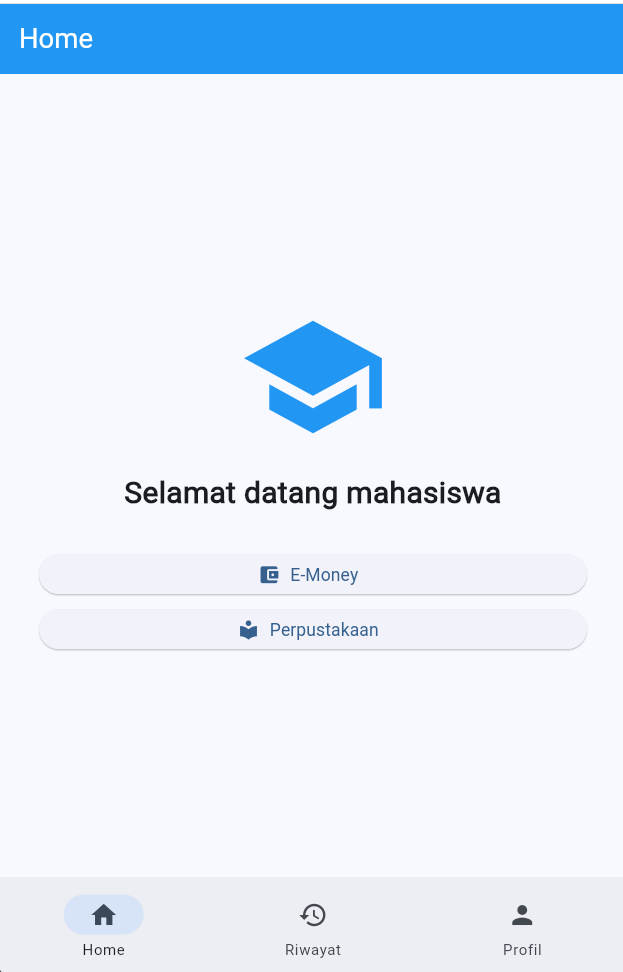
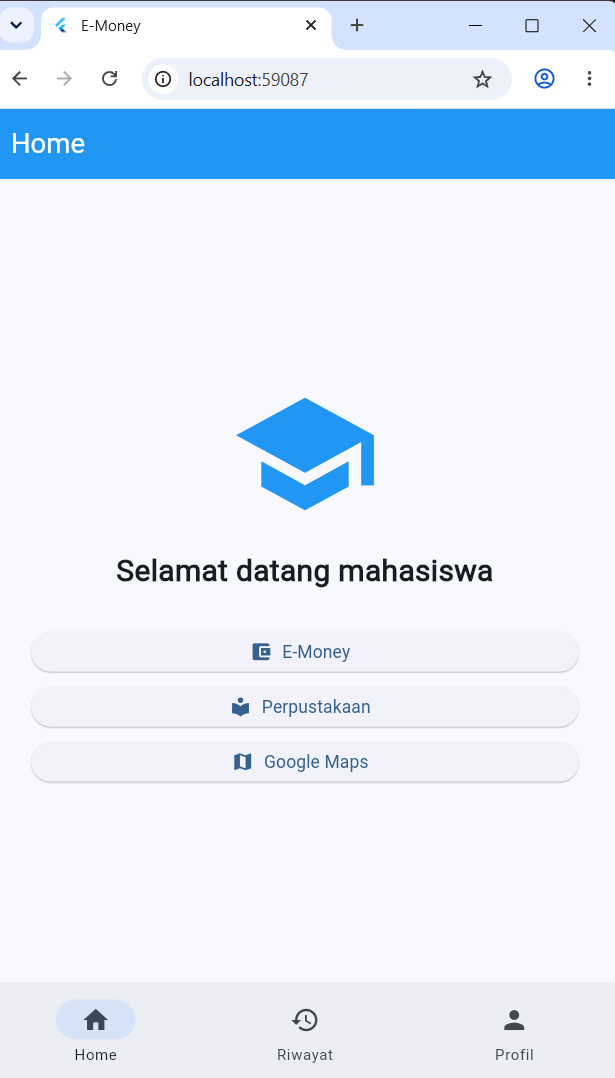
Menambahkan file README.md dan screenshot

diff --git a/README.md b/README.md
@@ -137,16 +137,21 @@ flutter run
 
 ## 🖼 Screenshot
 
-| Home | E-Money | Perpustakaan |
-|:---:|:---:|:---:|
-| ![Home](screenshots/home.png) | ![E-Money](screenshots/emoney.png) | ![Perpustakaan](screenshots/perpustakaan.png) |
+### Halaman Home & Google Maps (Baru)
+
+| Home (tombol Google Maps) | Google Maps (marker kampus) |
+|:---:|:---:|
+| ![Home](screenshots/home.png) | ![Google Maps](screenshots/maps.png) |
+
+### Halaman Lainnya
+
+| E-Money | Perpustakaan |
+|:---:|:---:|
+| ![E-Money](screenshots/emoney.png) | ![Perpustakaan](screenshots/perpustakaan.png) |
 
 | Riwayat | Profil |
 |:---:|:---:|
 | ![Riwayat](screenshots/riwayat.png) | ![Profil](screenshots/profil.png) |
-
-<!-- Tambahkan screenshot halaman Maps: simpan sebagai screenshots/maps.png lalu aktifkan baris di bawah -->
-<!-- ![Google Maps](screenshots/maps.png) -->
 
 ---
 
